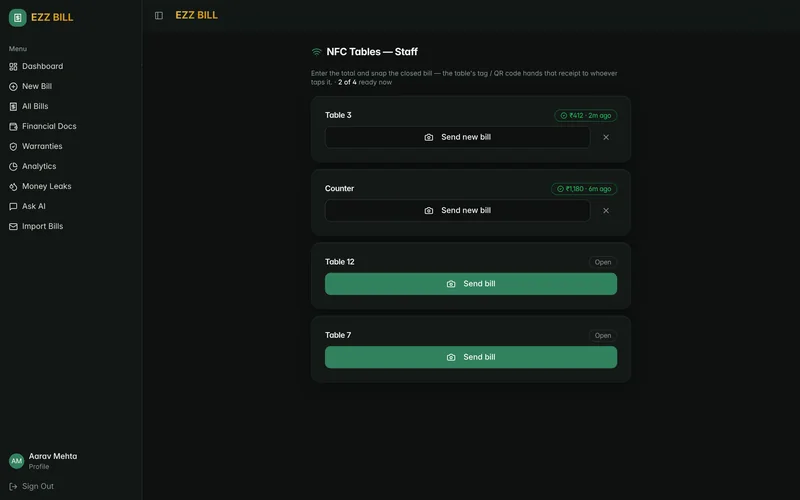
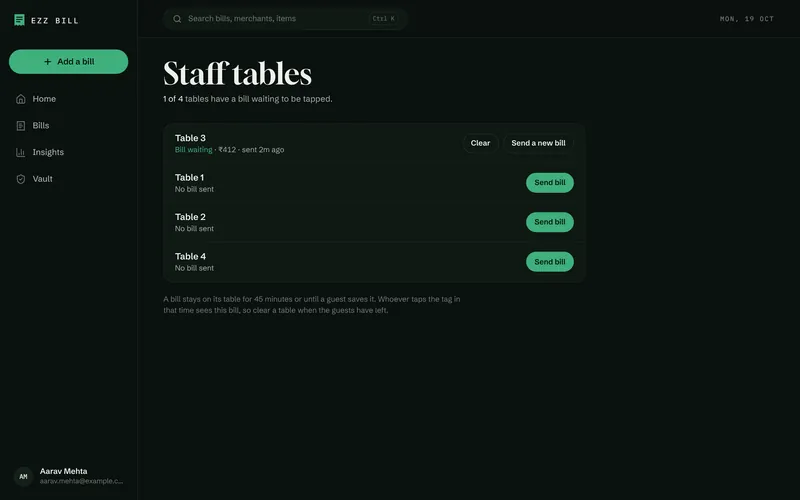
v10 sample: the redesigned app's screens, its map, and two new sections
A first pass for Omi's review, not yet for ezzbill.com.

- Hero phone shows the new Home; the subline says what is true now
  (tap, scan or upload; itemised, searchable, sums checked).
- Product: "Four places. One button." Tabs for Home, Bills, Insights
  (Money Leaks), Vault and Split, each a full-length new screen with the
  new tab bar.
- New "Add a bill" section: the capture sheet (Gmail marked beta), the
  sums adding up, a misread total caught.
- New "Checked, not guessed" section: a paper receipt of what every
  scanned or uploaded bill goes through, beside Smart Support.
- NFC steps and the browser frame use the new screens; copy corrected
  (Staff tables, QR fallback, when the bill is read).
- assets/screens: 31 new WebP screens made by the app repo's
  scripts/screens/site-assets.mjs with the demo world.

Still the old app: the two videos. Not yet done: traction modules,
unused files, og.png, README.

Claude-Session: https://claude.ai/code/session_01XpcPceXL6yugxbJ3rmVR4j

diff --git a/index.html b/index.html
@@ -221,6 +221,12 @@
   .receipt__total b { font-family: var(--serif); font-weight: 400; font-size: 30px; letter-spacing: 0; color: #A1342D; }
   .receipt__foot { text-align: center; font-size: 11.5px; color: var(--paper-dim); margin-top: 16px; }
   @media (max-width: 860px) { .problem__grid { grid-template-columns: minmax(0, 1fr); } .receipt { transform: none; } }
+  .receipt__total--ok b { color: #1F6B4A; }
+  .trust__phone { margin-top: clamp(36px, 5vw, 56px); max-width: 260px; }
+  .trust__phone .phone { border-radius: 40px; }
+  .trust__phone .phone__screen { border-radius: 32px; }
+  .trust__phone .cap { margin-top: 14px; text-align: center; font: 400 12px var(--mono); color: var(--faint); letter-spacing: .04em; }
+  @media (max-width: 860px) { .trust__phone { margin-left: auto; margin-right: auto; } }
 
   /* ---------- product tabs ---------- */
   .product__grid { display: grid; grid-template-columns: minmax(0, 1fr) minmax(0, .9fr); gap: clamp(40px, 6vw, 96px); align-items: center; margin-top: clamp(48px, 6vw, 72px); }
@@ -453,7 +459,7 @@
       <div class="rv">
         <p class="label">The digital layer for bills · India</p>
         <h1>UPI solved payments. We solve <em>what happens after.</em></h1>
-        <p class="hero__sub">Pay anywhere and the bill lands in your phone — itemised, searchable, and working for you: spend insights, warranty alerts, returns and reimbursements, in one place.</p>
+        <p class="hero__sub">Tap the table, scan the slip or upload the PDF. Every bill lands in one place — itemised, searchable, and with its sums checked.</p>
         <form class="waitlist" data-form="waitlist" novalidate>
           <input type="email" name="email" placeholder="you@email.com" aria-label="Your email" autocomplete="email" required>
           <input type="hidden" name="type" value="waitlist">
@@ -481,7 +487,7 @@
           <div class="phone__island"></div>
           <div class="phone__screen">
             <div class="phone__status"><span>13:20</span><i><svg width="16" height="10" viewBox="0 0 16 10" fill="#cfd6d2" aria-hidden="true"><rect x="0" y="6" width="3" height="4" rx="1"/><rect x="4.3" y="4" width="3" height="6" rx="1"/><rect x="8.6" y="2" width="3" height="8" rx="1"/><rect x="12.9" y="0" width="3" height="10" rx="1"/></svg><b></b></i></div>
-            <img src="/assets/screens/dashboard.webp" width="780" height="1688" alt="EZZ BILL home screen: ₹25,916 spent in the last 30 days, down 32%, with recent bills from Blue Tokai Coffee and Swiggy">
+            <img src="/assets/screens/home.webp" width="780" height="1688" alt="EZZ BILL Home: ₹25,916 spent in the last 30 days, down 32%, split by category, with the latest bill from Blue Tokai Coffee shown as a paper slip">
           </div>
           <div class="toast" aria-hidden="true">
             <div class="toast__icon"><svg viewBox="0 0 22 26"><path d="M2 1.5h18v21l-3-2-3 2-3-2-3 2-3-2-3 2z" fill="#04130B"/><path d="M6 7h10M6 11h10M6 15h6" stroke="#3FAF7D" stroke-width="1.8" stroke-linecap="round"/></svg></div>
@@ -534,29 +540,30 @@
     <div class="wrap">
       <div class="rv">
         <p class="label">The product</p>
-        <h2 class="h2">One home for every bill.<br>Then the bill starts working.</h2>
+        <h2 class="h2">Four places.<br>One button.</h2>
+        <p class="lede">Home, Bills, Insights and Vault — and one button that adds a bill from anywhere. The same map on a phone and on a laptop.</p>
       </div>
       <div class="product__grid">
         <div class="tabs rv" role="tablist" aria-label="Product features">
-          <button class="tab" role="tab" id="tab-collect" aria-controls="productStage" aria-selected="true" data-screen="/assets/screens/tall-all-bills.webp" data-nav="/assets/screens/nav-all-bills.webp" data-alt="All Bills screen: ₹63,962 across 59 bills, filterable by NFC bills and category, with Blue Tokai Coffee at the top">
-            <span class="tab__k">Collect</span><span class="tab__t">Every bill, from everywhere</span>
-            <span class="tab__d">Gmail receipts, camera snaps, PDFs and NFC table taps land in one feed — read by AI, itemised and categorised automatically.</span>
+          <button class="tab" role="tab" id="tab-home" aria-controls="productStage" aria-selected="true" data-screen="/assets/screens/tall-home.webp" data-nav="/assets/screens/nav-home.webp" data-alt="Home: ₹25,916 in the last 30 days by category, the latest bill on paper, and what needs you this week: Netflix renews in 3 days, a Croma return window, a warranty ending">
+            <span class="tab__k">Home</span><span class="tab__t">Where the money went, at a glance</span>
+            <span class="tab__d">The last 30 days by category, the latest bill on paper, and what needs you this week: a renewal, a return window, a warranty.</span>
           </button>
-          <button class="tab" role="tab" id="tab-leaks" aria-controls="productStage" aria-selected="false" tabindex="-1" data-screen="/assets/screens/tall-money-leaks.webp" data-nav="/assets/screens/nav-money-leaks.webp" data-alt="Money Leaks screen: ₹2,311 leaked this month, Leak Score 49 out of 100, category budgets and an AI advisor">
-            <span class="tab__k">Money Leaks</span><span class="tab__t">A score for where money quietly leaks</span>
-            <span class="tab__d">Your spending against an ideal budget built for your income, city and lifestyle — plus the one fix that saves you the most.</span>
+          <button class="tab" role="tab" id="tab-bills" aria-controls="productStage" aria-selected="false" tabindex="-1" data-screen="/assets/screens/tall-bills.webp" data-nav="/assets/screens/nav-bills.webp" data-alt="Bills: a search over shops, items and amounts, and every bill under its month with the month's total">
+            <span class="tab__k">Bills</span><span class="tab__t">Every bill, searchable to the line</span>
+            <span class="tab__d">Search a shop, an amount or a single item. Bills sit under their month with its total, and a bill saved twice is found and offered for review.</span>
           </button>
-          <button class="tab" role="tab" id="tab-warranty" aria-controls="productStage" aria-selected="false" tabindex="-1" data-screen="/assets/screens/tall-warranties.webp" data-nav="/assets/screens/nav-warranties.webp" data-alt="Warranties screen: MacBook Air, Sony headphones and an LG washer, each with purchase and expiry dates">
-            <span class="tab__k">Warranty vault</span><span class="tab__t">Never lose a warranty again</span>
-            <span class="tab__d">Purchase date, expiry countdown and claim steps for everything you own — flagged before it lapses, not after.</span>
+          <button class="tab" role="tab" id="tab-leaks" aria-controls="productStage" aria-selected="false" tabindex="-1" data-screen="/assets/screens/tall-money-leaks.webp" data-nav="/assets/screens/nav-insights.webp" data-alt="Money Leaks: ₹3,334 leaked in October, Leak Score 44, each category against its planned budget">
+            <span class="tab__k">Insights · Money Leaks</span><span class="tab__t">Your plan against what you spent</span>
+            <span class="tab__d">Six questions set an ideal budget for your income and city. Every bill is checked against it, and the Leak Score shows how far off you are.</span>
           </button>
-          <button class="tab" role="tab" id="tab-subs" aria-controls="productStage" aria-selected="false" tabindex="-1" data-screen="/assets/screens/tall-subscriptions.webp" data-nav="/assets/screens/nav-subscriptions.webp" data-alt="Subscriptions screen: ₹2,491 per month across 5 active subscriptions, next renewal iCloud+ on 28 October">
-            <span class="tab__k">Subscriptions</span><span class="tab__t">Every renewal, before it charges</span>
-            <span class="tab__d">Detected straight from your inbox: what you pay, when it renews, and which ones you forgot you had.</span>
+          <button class="tab" role="tab" id="tab-vault" aria-controls="productStage" aria-selected="false" tabindex="-1" data-screen="/assets/screens/tall-warranties.webp" data-nav="/assets/screens/nav-vault.webp" data-alt="Warranty vault: products grouped by how soon their cover ends">
+            <span class="tab__k">Vault</span><span class="tab__t">Warranties and renewals, before they lapse</span>
+            <span class="tab__d">Warranties grouped by how soon cover ends. Subscriptions with what they cost a month and when they charge next.</span>
           </button>
-          <button class="tab" role="tab" id="tab-split" aria-controls="productStage" aria-selected="false" tabindex="-1" data-screen="/assets/screens/tall-splits.webp" data-nav="/assets/screens/nav-splits.webp" data-alt="Splits screen: balances with four friends and recent bills ready to split">
-            <span class="tab__k">Split</span><span class="tab__t">Split it with the bill attached</span>
-            <span class="tab__d">Pick a saved bill, pick your friends. Everyone sees exactly what they're paying for — and who still owes what.</span>
+          <button class="tab" role="tab" id="tab-split" aria-controls="productStage" aria-selected="false" tabindex="-1" data-screen="/assets/screens/tall-splits.webp" data-nav="/assets/screens/nav-bills.webp" data-alt="Split the bill line by line: Blue Tokai Coffee, ₹412, two Cappuccinos and an Almond Croissant shared between you and Riya Kapoor, ₹206 each">
+            <span class="tab__k">Split</span><span class="tab__t">Split it line by line</span>
+            <span class="tab__d">Pick who had what. Tax is shared in proportion, and every share adds up to the bill.</span>
           </button>
         </div>
         <div class="product__stage rv" id="productStage" role="tabpanel" aria-labelledby="tab-collect">
@@ -564,11 +571,71 @@
             <div class="phone__island"></div>
             <div class="phone__screen" id="productScreen">
               <div class="phone__status"><span>13:20</span><i><b></b></i></div>
-              <img id="productImg" class="tall" src="/assets/screens/tall-all-bills.webp" width="780" height="4200" alt="All Bills screen: ₹63,962 across 59 bills, filterable by NFC bills and category, with Blue Tokai Coffee at the top" loading="lazy">
-              <img id="productNav" class="phone__nav" src="/assets/screens/nav-all-bills.webp" width="780" height="150" alt="" loading="lazy">
+              <img id="productImg" class="tall" src="/assets/screens/tall-home.webp" width="780" height="4014" alt="Home: ₹25,916 in the last 30 days by category, the latest bill on paper, and what needs you this week: Netflix renews in 3 days, a Croma return window, a warranty ending" loading="lazy">
+              <img id="productNav" class="phone__nav" src="/assets/screens/nav-home.webp" width="780" height="192" alt="" loading="lazy">
             </div>
           </div>
         </div>
+      </div>
+    </div>
+  </section>
+
+  <!-- ================= ADD A BILL ================= -->
+  <section class="section" id="add">
+    <div class="wrap">
+      <div class="rv">
+        <p class="label">Add a bill</p>
+        <h2 class="h2">Any bill, any way.<br>One check before it's saved.</h2>
+        <p class="lede">Scan a paper slip, upload photos or PDFs — many at once — paste a payment text, tap the table, or type it in. Every way ends on the same screen: the bill beside what was read, and the sums checked.</p>
+      </div>
+      <div class="steps">
+        <div class="step rv">
+          <span class="step__n">WHERE IS IT?</span>
+          <div class="phone"><div class="phone__island"></div><div class="phone__screen"><div class="phone__status"><span>13:20</span><i><b></b></i></div>
+            <img src="/assets/screens/capture.webp" width="780" height="1688" alt="Add a bill: Scan, Upload, Gmail (invite-only beta), SMS and Tap, or type it in" loading="lazy"></div></div>
+          <h3>One button, every source</h3>
+          <p>Camera, photos, PDFs, UPI texts and the table tag. Gmail import is an invite-only beta for now.</p>
+        </div>
+        <div class="step rv">
+          <span class="step__n">IT ADDS UP</span>
+          <div class="phone"><div class="phone__island"></div><div class="phone__screen"><div class="phone__status"><span>13:21</span><i><b></b></i></div>
+            <img src="/assets/screens/add-check.webp" width="780" height="1688" alt="Check the bill: two Cappuccinos at 320 and an Almond Croissant at 92, subtotal 392.38, tax 19.62, and a tick: the numbers add up to the total" loading="lazy"></div></div>
+          <h3>The sums, checked live</h3>
+          <p>Lines, tax, service charge and discount are added up against the total as you look.</p>
+        </div>
+        <div class="step rv">
+          <span class="step__n">OR IT SAYS SO</span>
+          <div class="phone"><div class="phone__island"></div><div class="phone__screen"><div class="phone__status"><span>13:21</span><i><b></b></i></div>
+            <img src="/assets/screens/add-mismatch.webp" width="780" height="1688" alt="Check the bill: the lines come to ₹412.00 but the total says ₹421.00; one of them was probably misread" loading="lazy"></div></div>
+          <h3>A misread, caught</h3>
+          <p>Read ₹421 where the lines make ₹412? You see the gap before anything is saved.</p>
+        </div>
+      </div>
+    </div>
+  </section>
+
+  <!-- ================= TRUST ================= -->
+  <section class="section" id="trust">
+    <div class="wrap problem__grid">
+      <div class="rv">
+        <p class="label">Checked, not guessed</p>
+        <h2 class="h2">An empty field beats a wrong one.</h2>
+        <p class="lede">A bill app is only worth keeping if you can trust what it says. EZZ BILL shows what is printed on the bill as fact — and nothing it made up.</p>
+        <div class="trust__phone">
+          <div class="phone"><div class="phone__island"></div><div class="phone__screen"><div class="phone__status"><span>13:22</span><i><b></b></i></div>
+            <img src="/assets/screens/smart-support.webp" width="780" height="1688" alt="Smart Support for a Croma bill: shop, address, bill number and payment method, each tagged From the bill" loading="lazy"></div></div>
+          <p class="cap">Smart Support · from the bill</p>
+        </div>
+      </div>
+      <div class="receipt rv" role="group" aria-label="What every bill goes through">
+        <div class="receipt__head">WHAT EVERY BILL GOES THROUGH<small>Every bill you scan or upload</small></div>
+        <hr>
+        <div class="item"><span class="q">01</span><h3>Printed means fact</h3><p>Shop, address, bill number and contacts come from the bill itself. Anything suggested is marked Unverified.</p></div>
+        <div class="item"><span class="q">02</span><h3>The sums are checked</h3><p>Lines, tax, charges and discount are added up against the total. A gap is shown before you save.</p></div>
+        <div class="item"><span class="q">03</span><h3>Twice is asked, never merged</h3><p>Same invoice number, or same shop, total and day: you decide. Two coffees can be two purchases.</p></div>
+        <div class="item"><span class="q">04</span><h3>Dates the Indian way</h3><p>04/11/26 is the 4th of November, not the 11th of April.</p></div>
+        <hr>
+        <div class="receipt__total receipt__total--ok"><span>WHEN UNSURE</span><b>it asks.</b></div>
       </div>
     </div>
   </section>
@@ -579,27 +646,27 @@
       <div class="rv">
         <p class="label">NFC Airdrop · live today</p>
         <h2 class="h2">Tap the table. The bill is yours.</h2>
-        <p class="lede">No app to download, no QR to scan, no email to type. One tag per table hands each guest their own bill — then hands the next guest theirs.</p>
+        <p class="lede">No app to download, nothing to type. One tag per table hands each guest their own bill — then hands the next guest theirs. Phones without NFC scan the QR code on the same tag.</p>
       </div>
       <div class="steps">
         <div class="step rv">
           <span class="step__n">STEP 1</span>
           <div class="phone"><div class="phone__island"></div><div class="phone__screen"><div class="phone__status"><span>13:18</span><i><b></b></i></div>
-            <img src="/assets/screens/staff.webp" width="780" height="1688" alt="Staff console: Table 3 and Counter show bills ready to tap; Table 12 and Table 7 are open" loading="lazy"></div></div>
+            <img src="/assets/screens/staff.webp" width="780" height="1688" alt="Staff tables: Table 3 has a ₹412 bill waiting to be tapped; Tables 1, 2 and 4 are ready to send" loading="lazy"></div></div>
           <h3>Staff send the bill</h3>
-          <p>Enter the total, snap the printed bill. The table's tag is armed in seconds — and every table's status is live on one screen.</p>
+          <p>Snap the printed bill and send it to the table. Every table's status is live on one screen.</p>
         </div>
         <div class="step rv">
           <span class="step__n">STEP 2</span>
           <div class="phone"><div class="phone__island"></div><div class="phone__screen"><div class="phone__status"><span>13:19</span><i><b></b></i></div>
-            <img src="/assets/screens/tap-guest.webp" width="780" height="1688" alt="Guest's phone after tapping the table tag: Blue Tokai Coffee receipt for ₹412 with sign-in to save" loading="lazy"></div></div>
+            <img src="/assets/screens/tap.webp" width="780" height="1688" alt="The guest's phone after tapping Table 3: the Blue Tokai Coffee bill, ₹412, itemised, with sign in to save it" loading="lazy"></div></div>
           <h3>The guest taps the tag</h3>
-          <p>Any phone opens the bill instantly. AI reads every line item while they sign in with one tap.</p>
+          <p>Any phone opens the bill at once, line by line. One sign-in keeps it.</p>
         </div>
         <div class="step rv">
           <span class="step__n">STEP 3</span>
           <div class="phone"><div class="phone__island"></div><div class="phone__screen"><div class="phone__status"><span>13:20</span><i><b></b></i></div>
-            <img src="/assets/screens/bill-detail.webp" width="780" height="1688" alt="Saved bill: Blue Tokai Coffee, Food and Dining, paid by UPI, with itemised Cappuccino and Almond Croissant" loading="lazy"></div></div>
+            <img src="/assets/screens/bill.webp" width="780" height="1688" alt="The saved bill: Blue Tokai Coffee, Koregaon Park, Table 3, two Cappuccinos and an Almond Croissant, ₹412 paid by UPI" loading="lazy"></div></div>
           <h3>Filed, itemised, forever</h3>
           <p>Saved and categorised in their EZZ BILL, right next to every other bill — ready to split, claim or search.</p>
         </div>
@@ -647,13 +714,13 @@
         <div class="rv">
           <a class="browser" id="deskView" href="https://ezbill.live/" target="_blank" rel="noopener" aria-label="Open the live EZZ BILL web app">
             <div class="browser__bar"><span class="browser__dots" aria-hidden="true"><i></i><i></i><i></i></span><span class="browser__url" id="deskUrl"><b>ezbill.live</b>/</span></div>
-            <span class="browser__view"><img id="deskImg" src="/assets/screens/desk-home.webp" srcset="/assets/screens/desk-home@1x.webp 800w, /assets/screens/desk-home.webp 1600w" sizes="(max-width: 860px) 92vw, 860px" width="1600" height="1000" alt="Web dashboard: ₹25,916 spent in the last 30 days, down 32%, with recent bills and quick actions" loading="lazy"></span>
+            <span class="browser__view"><img id="deskImg" src="/assets/screens/desk-home.webp" srcset="/assets/screens/desk-home@1x.webp 800w, /assets/screens/desk-home.webp 1600w" sizes="(max-width: 860px) 92vw, 860px" width="1600" height="1000" alt="Home in a browser: ₹25,916 in the last 30 days by category, earlier bills, the latest bill and what needs you" loading="lazy"></span>
           </a>
           <div class="seg" role="group" aria-label="Switch web app screen">
-            <button type="button" aria-pressed="true" data-v="home" data-path="/" data-alt="Web dashboard: ₹25,916 spent in the last 30 days, down 32%, with recent bills and quick actions">Dashboard</button>
-            <button type="button" aria-pressed="false" data-v="staff" data-path="/staff" data-alt="Staff console in the browser: every table's status, with bills ready to tap at Table 3 and the counter">Staff console</button>
-            <button type="button" aria-pressed="false" data-v="money-leaks" data-path="/money-leaks" data-alt="Money Leaks on the web: Leak Score 49 out of 100 with category budgets">Money Leaks</button>
-            <button type="button" aria-pressed="false" data-v="analytics" data-path="/analytics" data-alt="Insights on the web: spending by category and month">Insights</button>
+            <button type="button" aria-pressed="true" data-v="home" data-path="/" data-alt="Home in a browser: ₹25,916 in the last 30 days by category, earlier bills, the latest bill and what needs you">Home</button>
+            <button type="button" aria-pressed="false" data-v="staff" data-path="/staff" data-alt="Staff tables in a browser: Table 3 has a bill waiting; the other tables are ready to send">Staff tables</button>
+            <button type="button" aria-pressed="false" data-v="money-leaks" data-path="/money-leaks" data-alt="Money Leaks in a browser: ₹3,334 leaked in October, Leak Score 44, each category against its plan">Money Leaks</button>
+            <button type="button" aria-pressed="false" data-v="analytics" data-path="/analytics" data-alt="Spending in a browser: the month's total, categories, six months of bars and the top shops">Spending</button>
           </div>
         </div>
         <div class="proof__phone rv">
